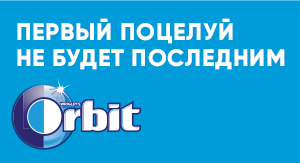
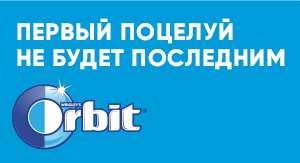
minor changes

Changed region(s): [[0.03, 0.4908, 0.51, 0.9202]]

diff --git a/728x90/orbit_728x90.html b/728x90/orbit_728x90.html
@@ -23,7 +23,7 @@
         .to("#msg03", 0.2, {y: -100, opacity: 0}, '+=1')
          .from("#rect", 0.2, {y: 100}, '-=0.1')
         .from("#logo", 0.2, {scale: 0.3, opacity: 0}, '+=0.1')
-        .from("#txt", 0.2, {x: 600, opacity: 0}, '-=-0.1')
+        .from("#txt", 0.2, {x: -600, opacity: 0}, '-=-0.1')
 
         
         ;

diff --git a/728x90/style.css b/728x90/style.css
@@ -63,15 +63,15 @@ img {
 
 
 #logo {
-  width: 123px;
-  left: 20px;
-  top: 10px;
+  width: 127px;
+  left: 588px;
+  top: 8px;
 }
 
 
 #txt {
   width: 548px;
-  left: 159px;
+  left: 27px;
   top: 34px;
 }
 
